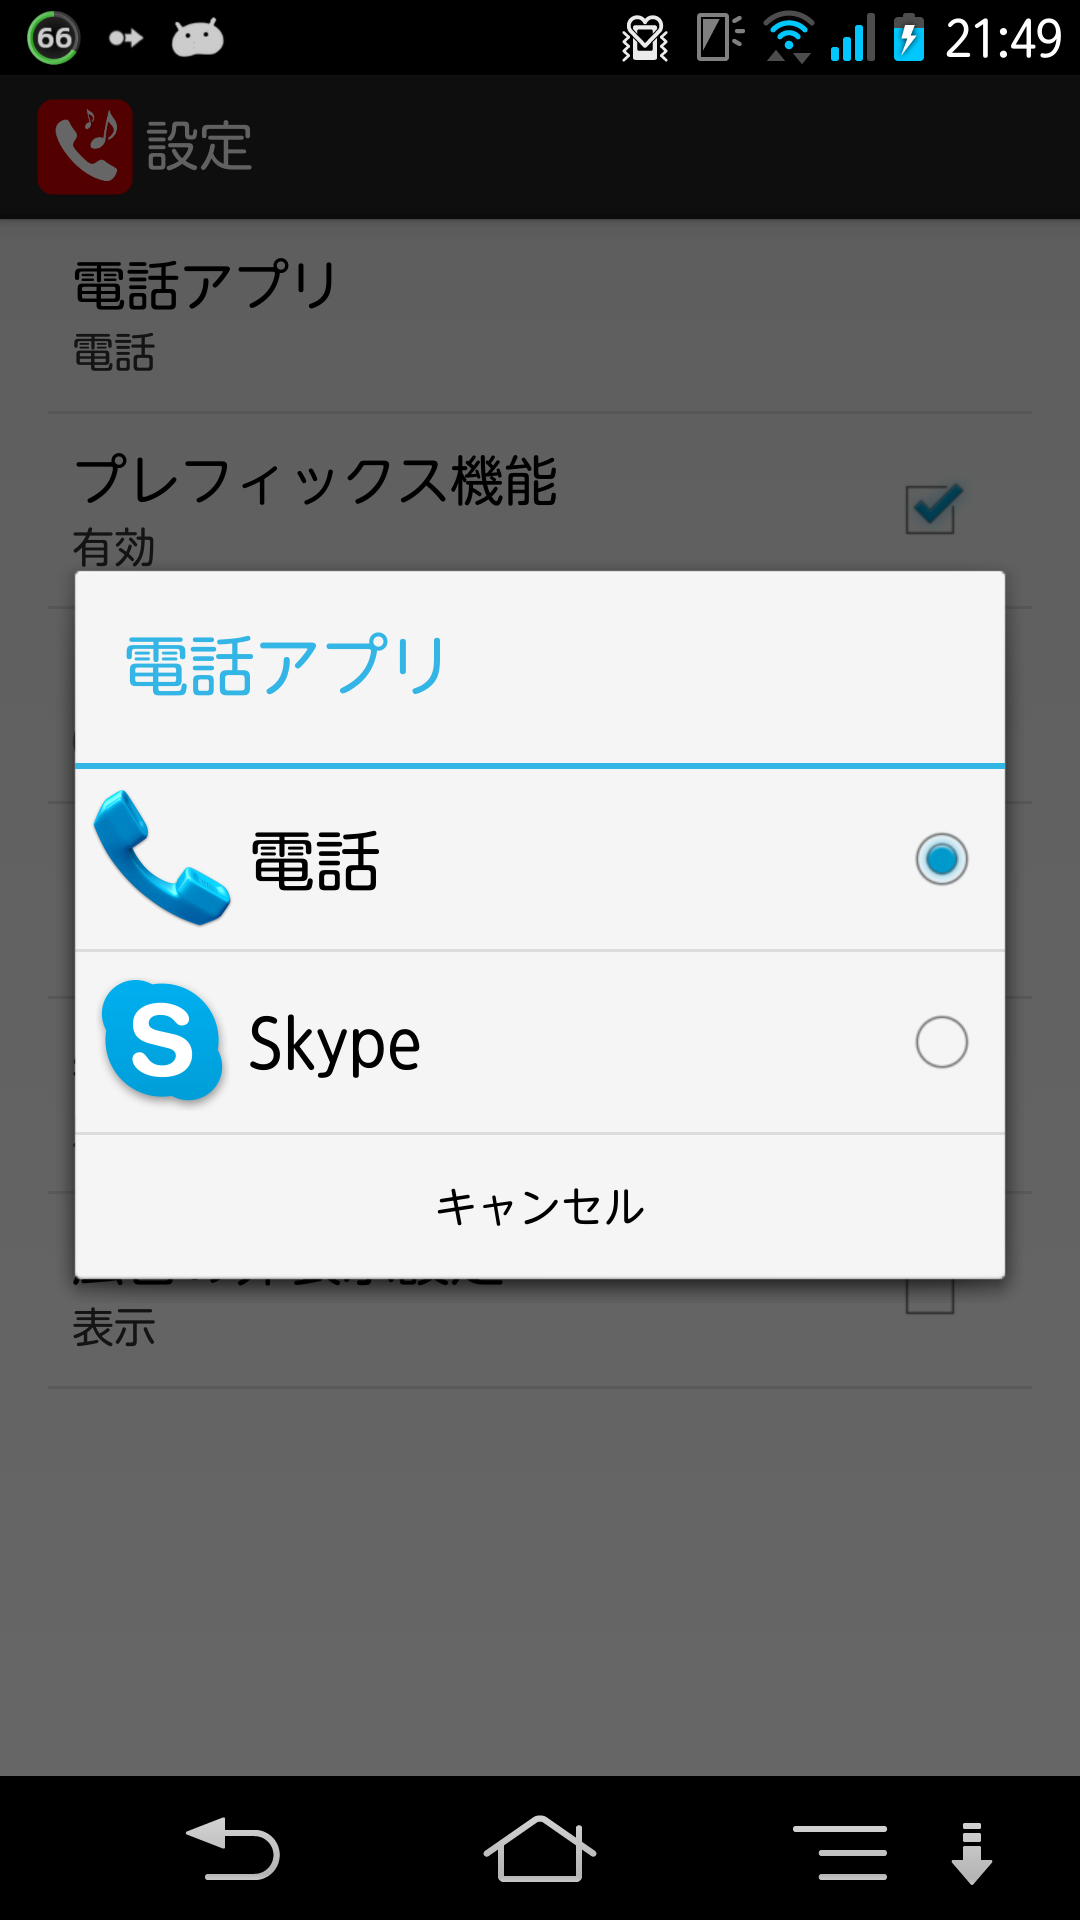
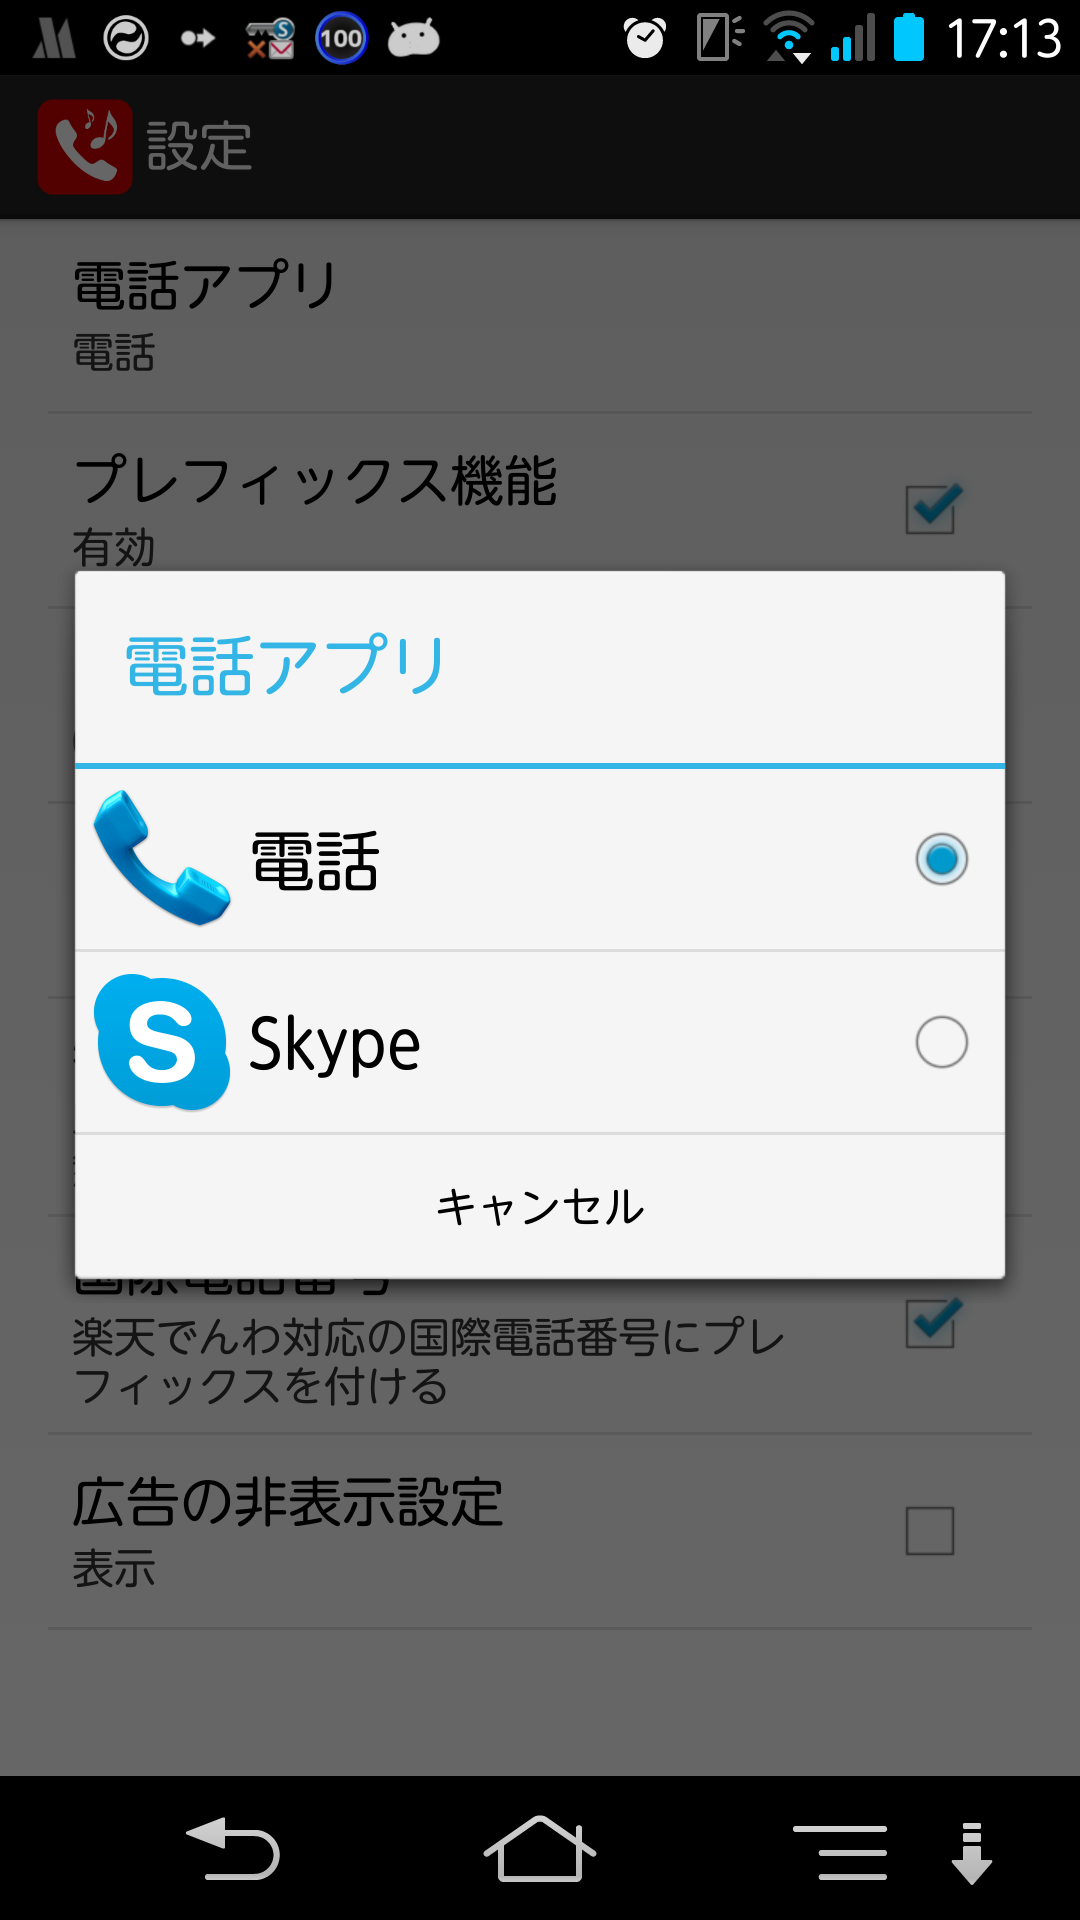
Version2.3のリリース準備

diff --git a/README.md b/README.md
@@ -10,13 +10,17 @@ RakutenCall
 + 設定からデフォルトで起動する電話アプリを設定できる
 + プレフィックス番号を変更できる
 + フリーダイアル(0120/0077/0088)を自動で無視できる
-+ 5桁以下の番号を自動で無視できる
++ 5桁以下,*と#始まりの番号を自動で無視できる
++ 楽天でんわ対応の国際番号を考慮してプレフィックスを追加する
 
 ###【仕様動作】###
 + NX!電話帳(バージョン3.0)でらくでんが使えない→NX!電話帳側の仕様変更により、必ず「電話」アプリが起動してしまいます。現在NX!電話帳の改善待ちとなります
 + 最新のドコモ電話帳でらくでんが使えない→ドコモ電話帳側の仕様変更により、必ず「電話」アプリが起動してしまいます。現在ドコモ電話帳の改善待ちとなります
 
 ###【バージョン情報】###
++ Version2.3後悔
+ - 楽天でんわ対応の国際電話番号に対応
+ - *と#から始まる番号を特殊番号に追加
 + Version2.2.1公開
  - 初回起動時プレフィックスの値が正常に反映されない問題に対処
 
